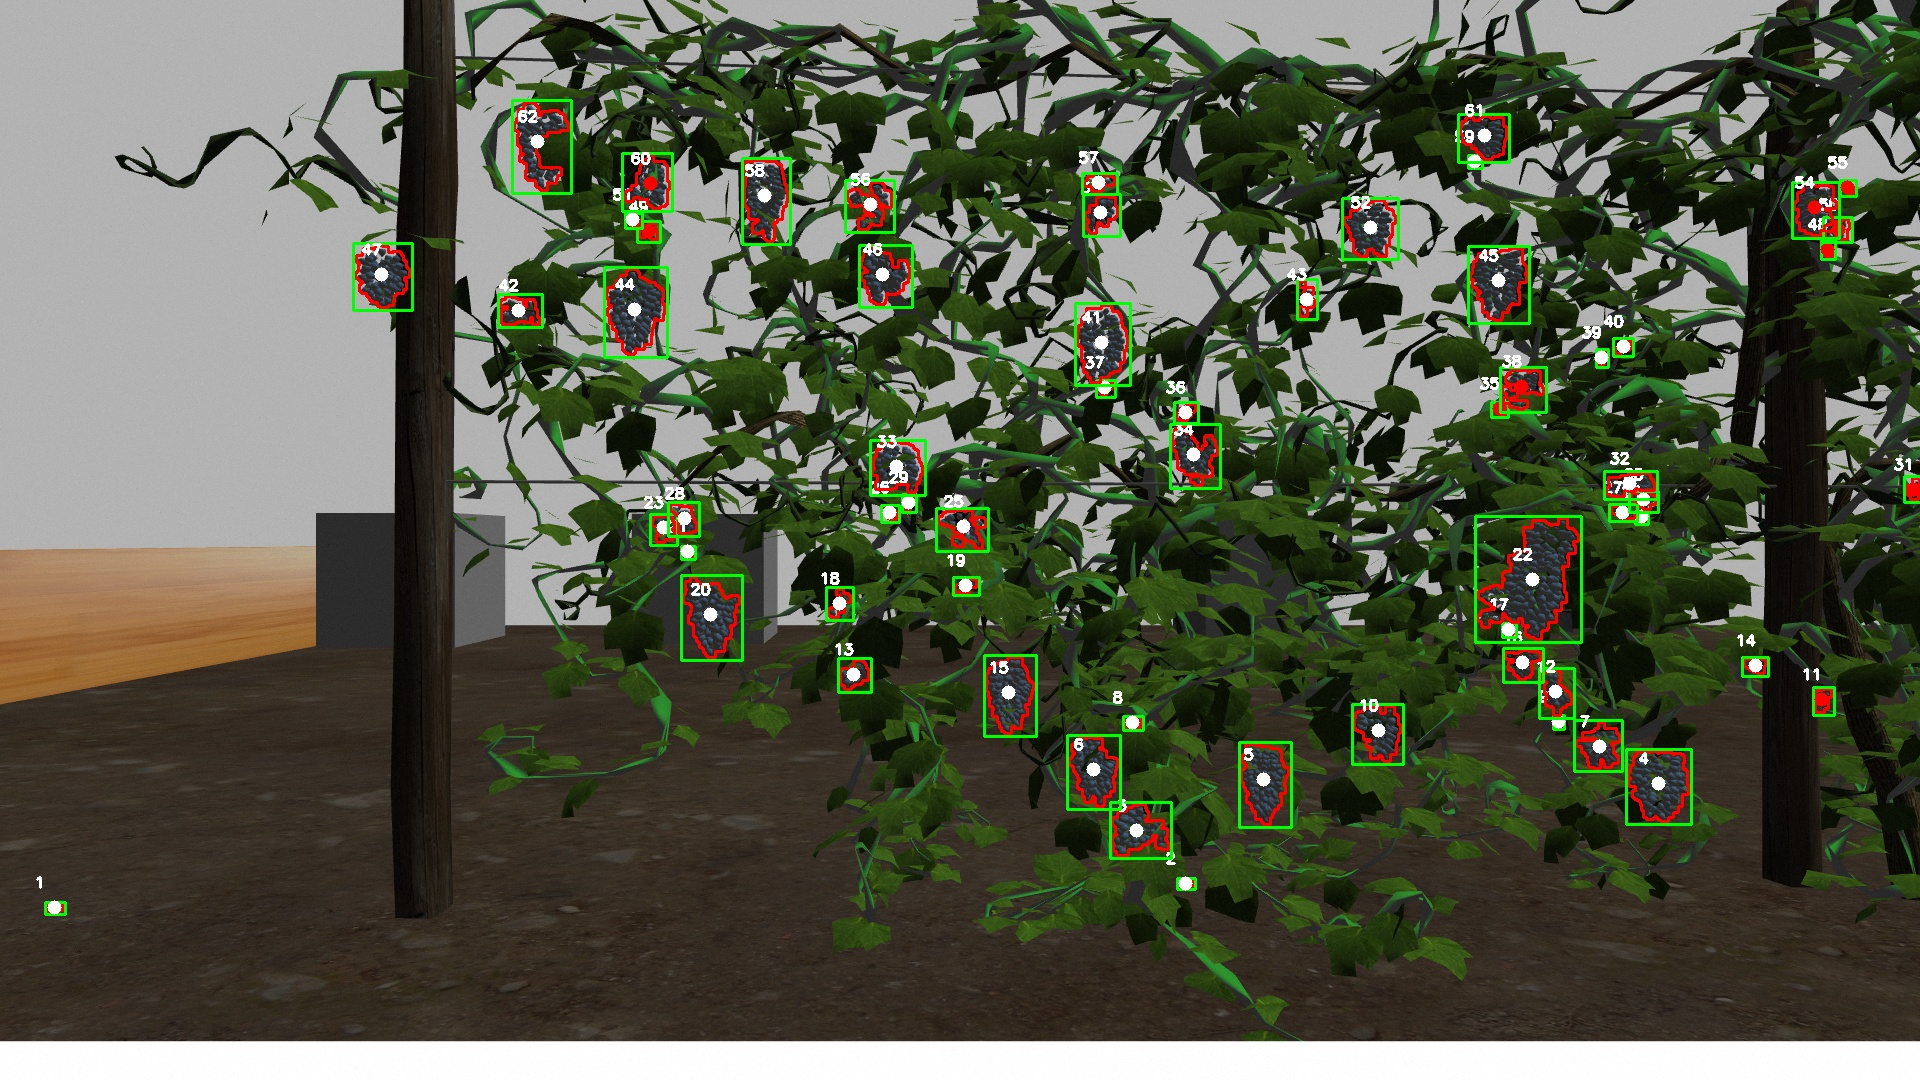
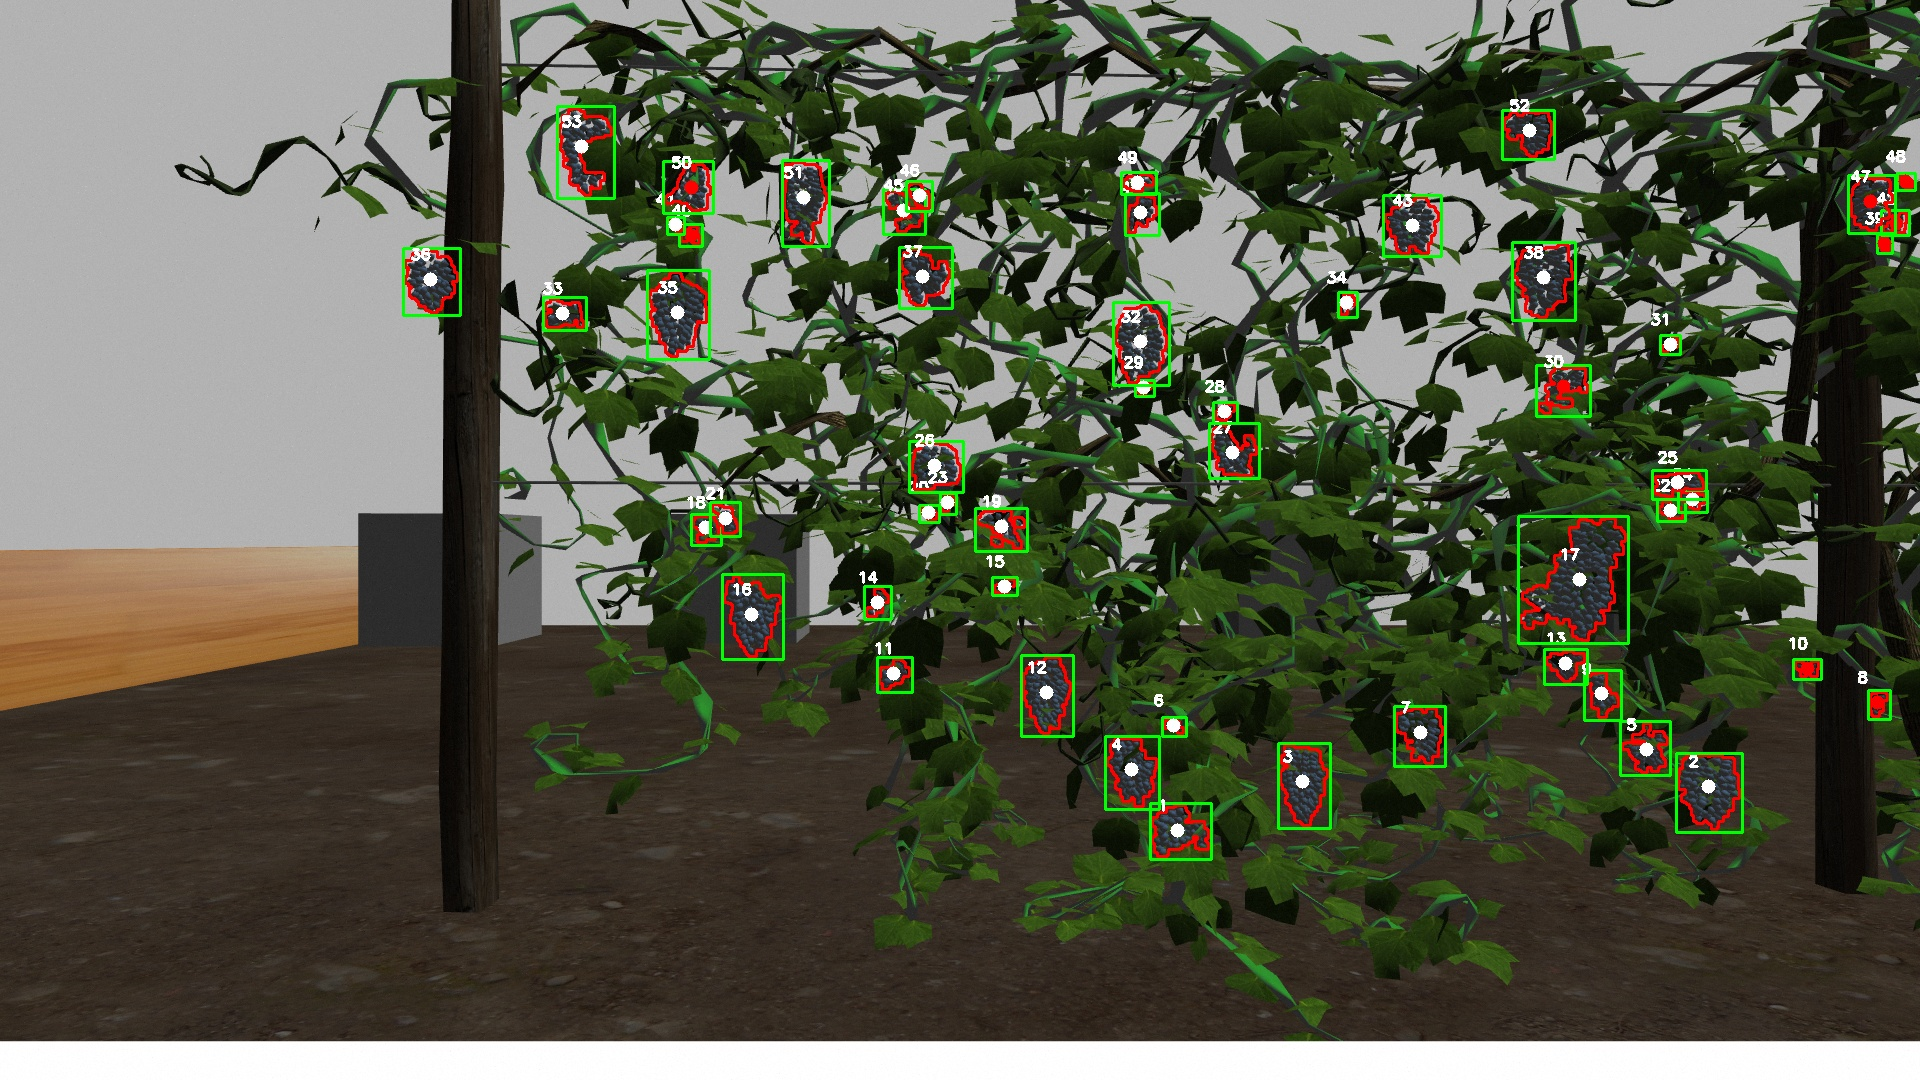
parameters

diff --git a/andy_ass1/scripts/camera.py b/andy_ass1/scripts/camera.py
@@ -28,13 +28,16 @@ class findBunches:
     ########
     # init #
     ########
-    def __init__(self, camera = "right"):
+    def __init__(self, camera = "right", area = 100):
 
         # So we known which camera we are
         self.camera = camera
         self.num_bunches = 0
         self.num_labels = 0
         self.iNum = 0
+
+        # Rather arbitary area, small enough to catch almost totally occluded bunches, big enough not to see rouge pixel colours as a bunch 
+        self.minArea = area
 
         self.moving = "true"
         self.row = ''
@@ -155,15 +158,15 @@ class findBunches:
         cnts = cv2.findContours(self.erosion, cv2.RETR_EXTERNAL, cv2.CHAIN_APPROX_SIMPLE)
         cnts = cnts[0] if len(cnts) == 2 else cnts[1]
 
-        # Rather arbitary area, small enough to catch almost totally occluded bunches, big enough not to see rouge pixel colours as a bunch 
-        min_area = 50
+        
+
         self.num_bunches = 0
         for c in cnts:
             M = cv2.moments(c)
             cX = int(M["m10"] / M["m00"])
             cY = int(M["m01"] / M["m00"])
             area = cv2.contourArea(c)
-            if area > min_area:
+            if area > self.minArea:
                 self.num_bunches += 1
                 self.bunches.append(c)
                 cv2.drawContours(self.orig_image, [c], -1, (0,0,255), 2)
@@ -171,23 +174,27 @@ class findBunches:
                 cv2.rectangle(self.orig_image,(x-2,y-2),(x+w+2,y+h+2),(0,255,0),2)
                 cv2.circle(self.orig_image, (cX, cY), 7, (255, 255, 255), -1)
                 cv2.putText(self.orig_image, str(self.num_bunches), (cX - 20, cY - 20), cv2.FONT_HERSHEY_SIMPLEX, 0.5, (255, 255, 255), 2)
+                #cv2.putText(self.orig_image, str(int(area)), (x , y - 10), cv2.FONT_HERSHEY_SIMPLEX, 0.5, (255, 255, 255), 2)
                 
-                # Rather than use a single pixel point a 7 x 7 area is sampled for depth and to reduce x,y positional noise
+                # Rather than use a single pixel point an area is sampled for depth and to reduce x,y positional noise
                 aX = []
                 aY = []
                 aZ = []
                 try:
-                    for i,v in enumerate([(-1,-1), (-1,0), (-1,1), (0, 0), (0, -1), (0, 1), (1,-1), (1,0), (1,1), (-2,-2), (-2,-1), (-2, 0), (-2,1), (-2,2), (-1,-2), (0,-2), (1,-2), (2,-2), (2,-1), (2,0), (2,1), (2,2), (1,2), (0,2),(-1,2)]):#, (-3,-3), (-3, -2), (-3,-1), (-3,0), (-3,1), (-3,2), (-3,3), (-2,-3), (-2,3), (-1,-3), (-1,3), (0,-3), (0,3),(1,-3), (1,3), (2,-3), (2,3), (3,-3),(3,-2),(3,-1),(3,0),(3,1),(3,2),(3,3)]):
+                    # OK - so this could have been a 2D array auto generated but I was experimenting before I realised :)
+                    for i,v in enumerate([(-1,-1), (-1,0), (-1,1), (0, 0), (0, -1), (0, 1), (1,-1), (1,0), (1,1), (-2,-2), (-2,-1), (-2, 0), (-2,1), (-2,2), (-1,-2), (0,-2), (1,-2), (2,-2), (2,-1), (2,0), (2,1), (2,2), (1,2), (0,2),(-1,2), (-3,-3), (-3, -2), (-3,-1), (-3,0), (-3,1), (-3,2), (-3,3), (-2,-3), (-2,3), (-1,-3), (-1,3), (0,-3), (0,3),(1,-3), (1,3), (2,-3), (2,3), (3,-3),(3,-2),(3,-1),(3,0),(3,1),(3,2),(3,3),
+                     (-4,-4), (-4,-3), (-4,-2), (-4,-1), (-4,0), (-4,1), (-4,2), (-4,3), (4,-4), (4,-3), (4,-2), (4,-1), (4,0), (4,1), (4,2), (4,3), (4,4)]):
 
                         # The depth array is smaller than the original colour image
                         depth_coords = (self.image_depth.shape[0] / 2 + ((cY+v[0]) - self.orig_image.shape[0] / 2) * self.color2depth_aspect, 
                             self.image_depth.shape[1] / 2 + ((cX+v[1]) - self.orig_image.shape[1] / 2) * self.color2depth_aspect)
 
                         # get the depth reading at the centroid location
+                        # Any failure here gets caught on the "except:" - which draws a red circle on the bunch to highlight a failure
                         depth_value = self.image_depth[int(depth_coords[0]), int(depth_coords[1])] # you might need to do some boundary checking first!
 
                         # calculate object's 3d location in camera coords
-                        camera_coords = self.camera_model.projectPixelTo3dRay((cX, cY)) #project the image coords (x,y) into 3D ray in camera coords 
+                        camera_coords = self.camera_model.projectPixelTo3dRay((cX+v[1], cY+v[0])) #project the image coords (x,y) into 3D ray in camera coords 
                         camera_coords = [x/camera_coords[2] for x in camera_coords] # adjust the resulting vector so that z = 1
                         camera_coords = [x*depth_value for x in camera_coords] # multiply the vector by depth
                         aX.append(camera_coords[0])
@@ -198,36 +205,25 @@ class findBunches:
                     # EXPERIMENTING!!!                                                                               #
                     ##################################################################################################
                     # any depth that is more than 0.2m away from average - delete
-                    i = 0
+                    i,s,c = 0,0,0
                     while i < len(aZ):
-                        if math.isnan(float(aZ[i])):
-                            print("Odd Z", aX[i], aY[i], aZ[i])
-                            del aZ[i]
-                            del aX[i]
-                            del aY[i]
-                            print(len(aZ))
+                        if not math.isnan(float(aZ[i])):
+                            c += 1   
+                            s += aZ[i]
                         i += 1
+                    # If c is 0 then except will catch and draw a red dot
+                    avg = s / c
 
-                    avg = sum(aZ) / len(aZ)
-
-                    xx = 0
-                    yy = 0
-                    zz = 0
-                    tt = 0
-                    print("Bunch", self.num_bunches)
+                    xx,yy,zz,tt = 0,0,0,0
                     for v in zip(aX, aY, aZ):
                         if math.isnan(float(v[0])) or math.isnan(float(v[1])) or math.isnan(float(v[2])):
-                            print("bad", v[0], v[1], v[2])
                             continue
                         if abs(v[2]) > abs(avg) + 0.20:
-                            print("bad extreme", v[0], v[1], v[2])
                             continue
                         tt += 1
                         xx += v[0]
                         yy += v[1]
                         zz += v[2]
-                        print("good", v[0], v[1], v[2])
-                    print()
                     ##################################################################################################
 
 
@@ -238,12 +234,36 @@ class findBunches:
                     object_location.pose.orientation.w = 1
                     
                     # Produce an average location
-                    object_location.pose.position.x = round(xx / tt, 2)
-                    object_location.pose.position.y = round(yy / tt, 2)
-                    object_location.pose.position.z = round(zz / tt, 2)
+                    object_location.pose.position.x = round(xx / tt, 3)
+                    object_location.pose.position.y = round(yy / tt, 3)
+                    object_location.pose.position.z = round(zz / tt, 3)
 
                     # get the coordinates in the map frame
                     p_camera = self.tf_listener.transformPose('map', object_location)
+
+                    ################
+                    # CHECKING!!!! #
+                    ################
+                    # Idea was to see if there was noise applied to tf map->camera ----- there isn't
+
+                    # # Project back to image
+                    # object_location2 = PoseStamped()
+                    # object_location2.header.stamp = self.stampDepth
+                    # object_location2.header.frame_id = "map" 
+                    # object_location2.pose.orientation.w = 1
+                    
+                    # # Produce an average location
+                    # object_location2.pose.position.x = p_camera.pose.position.x
+                    # object_location2.pose.position.y = p_camera.pose.position.y
+                    # object_location2.pose.position.z = p_camera.pose.position.z
+
+                    # # get the coordinates in the map frame
+                    # p_camera2 = self.tf_listener.transformPose("thorvald_001/kinect2_left_rgb_optical_frame", object_location2)
+                    # uv = self.camera_model.project3dToPixel((p_camera2.pose.position.x, p_camera2.pose.position.y, p_camera2.pose.position.z))                 
+                    # cv2.circle(self.orig_image, (int(uv[0]), int(uv[1])), 7, (0, 255, 255), -1)
+
+
+
 
                     # Depth can get confused by blocks / objects close to camera
                     # NOTE TODO this should be changed as distance away from camera not a map position
@@ -276,7 +296,6 @@ class findBunches:
 
                 # If point is out of bounds (no depth info) display it as red dot        
                 except Exception as e:
-                    print("exception", e, "bunch")
                     cv2.circle(self.orig_image, (cX, cY), 7, (0, 0, 255), -1)
 
         # Publish the point cloud
@@ -288,7 +307,8 @@ class findBunches:
             self.rowMinMax[self.row]['min'] = thisMin + 0.3
         if thisMax > self.rowMinMax[self.row]['max']:
             self.rowMinMax[self.row]['max'] = thisMax - 0.3  
-        self.widths.publish(String(json.dumps(self.rowMinMax)))            
+        self.widths.publish(String(json.dumps(self.rowMinMax)))    
+       
 
     ##################
     # image_callback #
@@ -362,7 +382,8 @@ class findBunches:
             cv2.imwrite("/home/ubuntu/ros_ws/src/andy_ass1/images/"+self.row+"_"+str(self.iNum)+"_"+self.camera+".jpg", self.orig_image)
             #self.show_image(self.erosion, "Eroded")
         if self.num_labels > 20:
-            self.show_image(self.labeled_image, self.camera + " Grapes")
+            cv2.imwrite("/home/ubuntu/ros_ws/src/andy_ass1/images/"+self.row+"_grapes_"+str(self.iNum)+"_"+self.camera+".jpg", self.labeled_image)
+            #self.show_image(self.labeled_image, self.camera + " Grapes")
         cv2.waitKey(25)
 
 ########
@@ -372,9 +393,11 @@ def main():
     rospy.init_node('camera_processing', anonymous=True)
     try:
         camera = rospy.get_param('~camera')
+        area = int(rospy.get_param('~area'))
     except:
         camera = 'left' 
-    bunch = findBunches(camera)
+        area = 100
+    bunch = findBunches(camera, area)
     rate = rospy.Rate(100)
     while not rospy.is_shutdown():     
         rate.sleep()

diff --git a/andy_ass1/scripts/main_display.py b/andy_ass1/scripts/main_display.py
@@ -13,6 +13,7 @@ from std_msgs.msg import String
 from geometry_msgs.msg import Pose
 from topological_navigation_msgs.msg import GotoNodeActionGoal
 from sensor_msgs.msg import PointCloud
+from sensor_msgs.msg import ChannelFloat32
 from math import sqrt
 import json
 import time
@@ -29,7 +30,10 @@ class Display:
     ########
     # init #
     ########
-    def __init__(self):
+    def __init__(self, rows, noGrapes, weight):
+        self.rows = rows
+        self.noGrapes = noGrapes
+        self.weight = weight
 
         self.start = time.time()
         self.end = time.time()
@@ -49,7 +53,7 @@ class Display:
         rospy.Subscriber('/thorvald_001/row_widths', String, self.callbackWidths)
 
         # Blank screen image
-        self.img = np.zeros((512,512,3), np.uint8)
+        self.img = np.zeros((600,512,3), np.uint8)
         
         # Font stuff
         self.font                   = cv2.FONT_HERSHEY_SIMPLEX
@@ -87,6 +91,9 @@ class Display:
         self.numberBunches = 0
         self.numberGrapes = 0
         self.widths = {}
+        self.small = 0
+        self.medium = 0
+        self.big = 0
 
     ####################
     # Object detection #
@@ -106,6 +113,19 @@ class Display:
     ###########
     def grapes_callback(self, pc):
         self.numberBunches = len(pc.points)
+        self.small = 0
+        self.big = 0
+        self.medium = 0
+        try:
+            for v in pc.channels[0].values:
+                if v > 4500:
+                    self.big += 1
+                elif v > 2000:
+                    self.medium += 1
+                else:
+                    self.small += 1
+        except Exception as e:
+            pass
 
     ##########
     # Moving #
@@ -139,7 +159,7 @@ class Display:
     # addText #
     ###########
     def addText(self):
-        self.img = np.zeros((512,512,3), np.uint8)
+        self.img = np.zeros((600,512,3), np.uint8)
         distance =     "Distance travelled: " + str(round(self.distanceTravelled,2)) + " m"
         distanceCrow = "Distance from start: " + str(round(self.getDistanceCrow(),2)) + " m"
         try:
@@ -157,7 +177,20 @@ class Display:
         target = "Topological goal: " + str(self.target)
         moving = "Robot moving: " + str(self.moving)
         camera = "Camera state: " + str(self.camera)
-        bunches = "Bunches of grapes: " + str(self.numberBunches)
+        bunches = "Bunches of grapes seen: " + str(self.numberBunches)
+        sm = "Small bunches: " + str(self.small)
+        me = "Medium bunches: " + str(self.medium)
+        bi = "Potential double bunches: " + str(self.big)
+        bunchesApproxN = self.numberBunches + int(self.big/2)
+        bunchesApprox = "Approximate number of grape bunches: " + str(bunchesApproxN)
+        weightBunch = self.weight * self.noGrapes
+        weightBunchRow = "Weight per row: " + str(round((weightBunch * bunchesApproxN) / 1000, 2)) + " kg"
+        weightField = "Total weight for field: " + str(round((weightBunch * bunchesApproxN * self.rows)/1000, 2)) + " kg"
+        bunchField = "Bunches within field: " + str(bunchesApproxN * self.rows)
+        grapesField = "Total grapes in field: " + str(bunchesApproxN * self.rows * self.noGrapes)
+        weightGrape = "Weight per grape: " + str(self.weight) + " grammes"
+        rowsField = "Rows of grapes in field: " + str(self.rows)
+
         state = "Control state: " + str(self.state)
         if str(self.state) != "Finished":
             self.end = time.time()
@@ -178,7 +211,7 @@ class Display:
                 w = abs(widths1 - widths2)
             gWidth1 = "Grapevine length: " + str(round(w , 2)) + " m"
  
-            bunchMetre = "Average bunches per metre: " + str(round(self.numberBunches / (w), 1))
+            bunchMetre = "Average bunches per metre: " + str(round(self.numberBunches / w, 1))
         except:
             gWidth1 = "Grapevine length: 0 m"
             avgWidth = 0
@@ -198,9 +231,20 @@ class Display:
 
         cv2.putText(self.img, bunches, (10,235), self.font, self.fontScale, self.fontColor, self.thickness, self.lineType)
         cv2.putText(self.img, gWidth1, (10,250), self.font, self.fontScale, self.fontColor, self.thickness, self.lineType)
+        cv2.putText(self.img, sm, (10,280), self.font, self.fontScale, self.fontColor, self.thickness, self.lineType)
+        cv2.putText(self.img, me, (10,295), self.font, self.fontScale, self.fontColor, self.thickness, self.lineType)
+        cv2.putText(self.img, bi, (10,310), self.font, self.fontScale, self.fontColor, self.thickness, self.lineType)
 
-        cv2.putText(self.img, bunchMetre, (10,280), self.font, self.fontScale, self.fontColor, self.thickness, self.lineType)
-        cv2.putText(self.img, timing, (10,315), self.font, self.fontScale, self.fontColor, self.thickness, self.lineType)
+        cv2.putText(self.img, bunchesApprox, (10,345), self.font, self.fontScale, self.fontColor, self.thickness, self.lineType)
+        cv2.putText(self.img, bunchMetre, (10,360), self.font, self.fontScale, self.fontColor, self.thickness, self.lineType)
+
+        cv2.putText(self.img, bunchField, (10,395), self.font, self.fontScale, self.fontColor, self.thickness, self.lineType)
+        cv2.putText(self.img, grapesField, (10,410), self.font, self.fontScale, self.fontColor, self.thickness, self.lineType)
+        cv2.putText(self.img, weightField, (10,425), self.font, self.fontScale, self.fontColor, self.thickness, self.lineType)
+        cv2.putText(self.img, weightBunchRow, (10,440), self.font, self.fontScale, self.fontColor, self.thickness, self.lineType)
+        cv2.putText(self.img, weightGrape, (10,455), self.font, self.fontScale, self.fontColor, self.thickness, self.lineType)
+        cv2.putText(self.img, rowsField, (10,470), self.font, self.fontScale, self.fontColor, self.thickness, self.lineType)
+        cv2.putText(self.img, timing, (10,505), self.font, self.fontScale, self.fontColor, self.thickness, self.lineType)
 
 
     #############
@@ -269,7 +313,15 @@ class Display:
 def main():
 
     rospy.init_node('main_display')
-    display = Display()
+    try:
+        rows = float(rospy.get_param('~rows'))
+        noGrapes = int(rospy.get_param('~grapes'))
+        weight = float(rospy.get_param('~weight'))
+    except:
+        rows = 1 
+        noGrapes = 50
+        weight = 0.18
+    display = Display(rows,noGrapes,weight)
     while not rospy.is_shutdown():
         display.addText()
         display.drawScreen()

diff --git a/andy_ass1/scripts/point_colation.py b/andy_ass1/scripts/point_colation.py
@@ -22,13 +22,15 @@ class Collate:
     ########
     # init #
     ########
-    def __init__(self):
+    def __init__(self, tolerance = 0.2):
+
+        self.tol = tolerance
 
         # Store for all points from all cameras
         self.bunches = []
         # This will be published for RVIZ
         self.pcBunches = PointCloud()
-
+        
         # The cameras
         left = rospy.Subscriber('/thorvald_001/grapes_left', PointCloud, self.left_callback)
         right = rospy.Subscriber('/thorvald_001/grapes_right', PointCloud, self.right_callback)
@@ -67,7 +69,7 @@ class Collate:
         intensities = []
         for i, pointDict in enumerate(self.bunches):
             if i > 400: break
-            # Each point must have been seen x times to show its a reliable point - (needs to be a particle filter)
+            # Each point must have been seen x times to show its a reliable point - 
             if pointDict['n'] > 0:
                 p = Point32()
                 intensities.append(pointDict['i'])
@@ -93,7 +95,7 @@ class Collate:
             z = point.z 
             inten = channel.values[0]
             found = False
-            if z > 0.1:
+            if z > 0.05:
                 for i, pointDict in enumerate(self.bunches):
                     sX = pointDict['x']
                     sY = pointDict['y']
@@ -104,7 +106,7 @@ class Collate:
                     dY = abs(abs(sY) - abs(y))
                     dZ = abs(abs(sZ) - abs(z))
                     # Crude filter to group noisy point clouds - not effective really
-                    if dX < 0.2 and dY < 0.2 and dZ < 0.2:
+                    if dX < self.tol and dY < self.tol and dZ < self.tol:
                         # Multiple points that match suggest a better reading
                         self.bunches[i]['n'] += 1
                         # If this point is close enough to where another point is
@@ -126,7 +128,11 @@ class Collate:
 ########
 def main():
     rospy.init_node('bunches', anonymous=True)
-    collate = Collate()
+    try:
+        tolerance = float(rospy.get_param('~tolerance'))
+    except:
+        tolerance = 0.2 
+    collate = Collate(tolerance)
     rate = rospy.Rate(10)
     while not rospy.is_shutdown():  
         collate.publish()   
